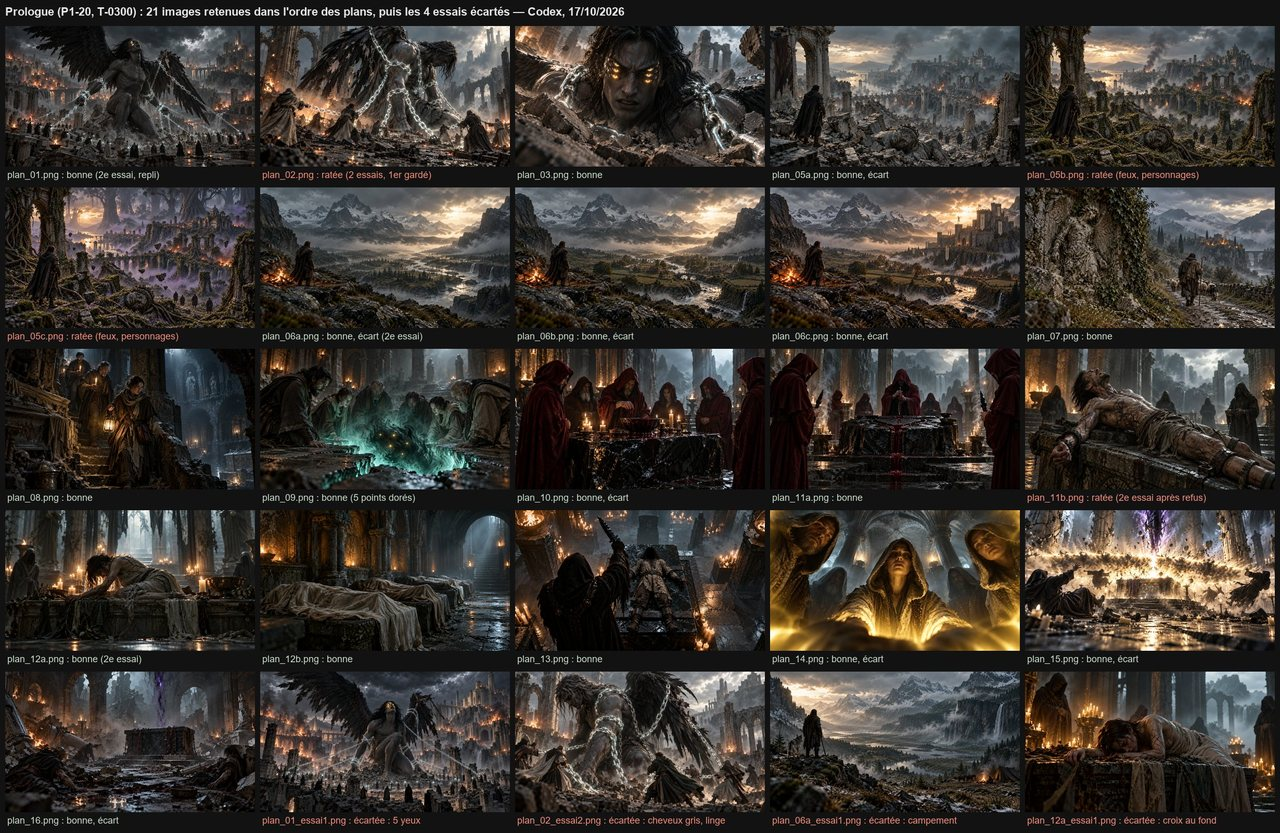
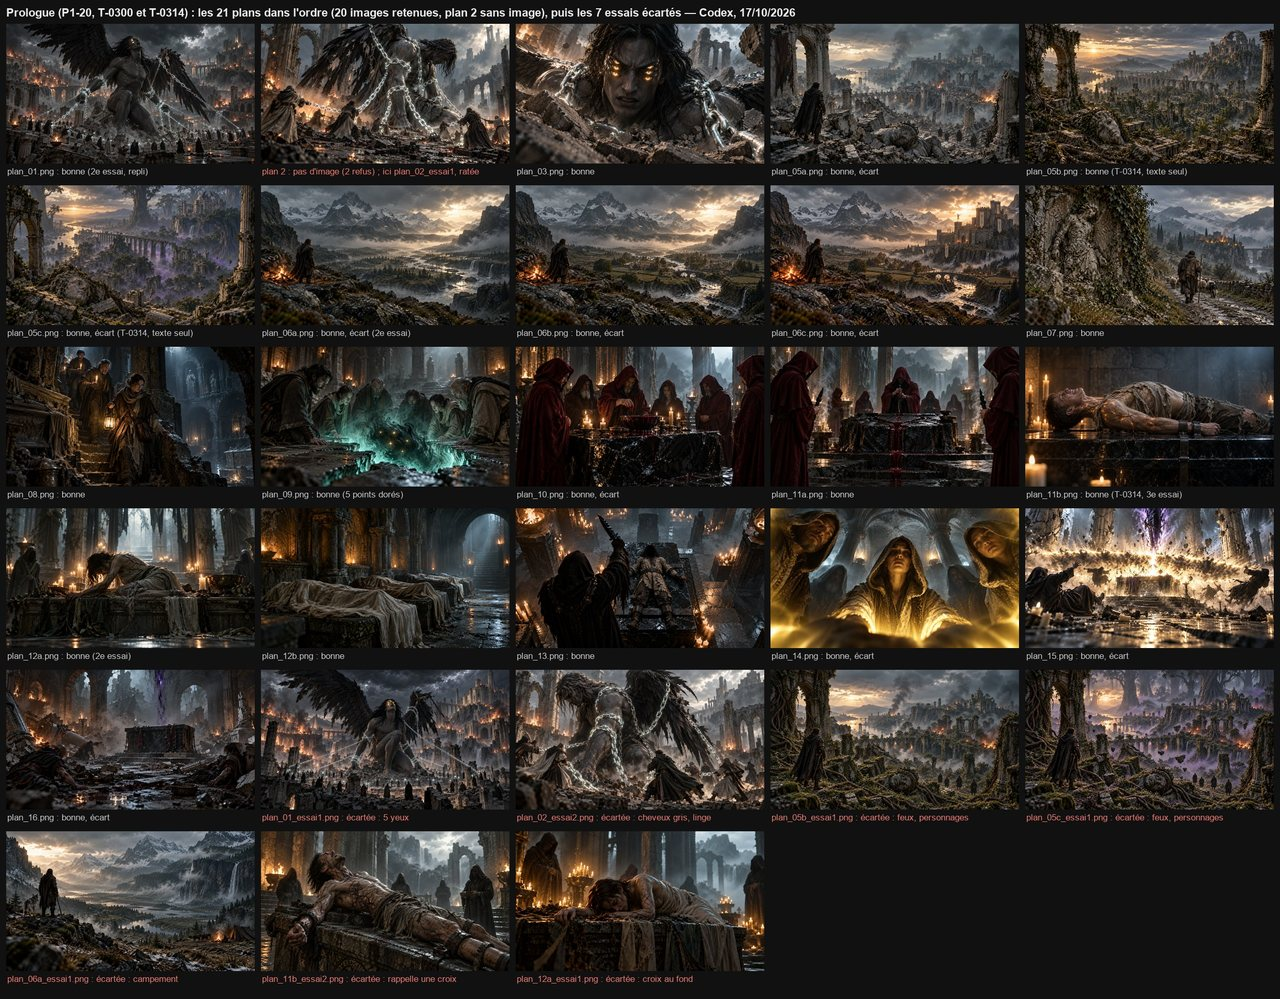
Publication : jour-2026-10-17

diff --git a/semaines/2026-10-13/pages/jour-2026-10-17/page.html b/semaines/2026-10-13/pages/jour-2026-10-17/page.html
@@ -95,7 +95,7 @@ ul.liste{margin:0;padding-left:1.1rem;display:grid;gap:.4rem}
   <div class="surtitre">Projet AAA · suivi · samedi 17 octobre 2026 · semaine du 13 au 19 octobre</div>
   <h1>Jour <em>5</em></h1>
   <p class="lecture">Le directeur a joué jusqu&#x27;à 05:46 en laissant les décisions du jour au Chef (<span class="insec">D-320</span>) : la matinée a reporté ses réponses (<span class="insec">D-319</span>), préparé les démos 1 et 2 et refait le plan ; depuis 05:46, la carte et le processeur sont rendus et les deux files repartent.</p>
-  <p class="ticket">Mise à jour : 17/10/2026 à 10:15</p>
+  <p class="ticket">Mise à jour : 17/10/2026 à 10:20</p>
   <nav class="sommaire" aria-label="Sommaire">
     <a href="#resume">Résumé</a><a href="#files">Files de travail</a><a href="#modeles">Modèles 3D</a><a href="#journal">Journal</a><a href="#questions">Questions</a>
   </nav>
@@ -104,7 +104,7 @@ ul.liste{margin:0;padding-left:1.1rem;display:grid;gap:.4rem}
 
 <section id="resume">
   <h2>Résumé</h2>
-  <div class="compteurs" aria-label="Tickets par état"><span class="etat e-a-faire">7 à faire</span><span class="etat e-en-cours">2 en cours</span><span class="etat e-verification">1 en vérification</span><span class="etat e-valide">61 validés</span></div>
+  <div class="compteurs" aria-label="Tickets par état"><span class="etat e-a-faire">7 à faire</span><span class="etat e-en-cours">2 en cours</span><span class="etat e-verification">2 en vérification</span><span class="etat e-valide">61 validés</span></div>
   <ul class="liste lecture">
     <li><strong><span class="insec">D-319</span></strong> : prologue (« Et puis toi. », Ange solide et assombri, réveil en FPS), entité de la démo 1 (« Lâche tout. Laisse-moi faire. », variantes de « Pas encore. », sous-titres d&#x27;au moins 1,5 s), hameau (voix des redites en direct, morts au hasard selon l&#x27;âge et la saison, marchand des Canyons, Choix A vouvoyé), villageois (tombe debout, retour de chasse, lanterne la nuit), laie au pas du mâle.</li>
     <li><strong><span class="insec">D-320</span></strong> : carte et processeur repris par le directeur pour jouer ; le Chef décide seul aujourd&#x27;hui et enchaîne les tickets en autonomie.</li>
@@ -197,7 +197,8 @@ ul.liste{margin:0;padding-left:1.1rem;display:grid;gap:.4rem}
     <div class="piste"><span class="ticket"><span class="insec">T-0311</span> · <span class="insec">D-320</span> (32) (2), (48)</span><h3>Sous-titres anglais de la démo 2</h3><p class="muted">L&#x27;anglais britannique des 48 répliques de PNJ montrées dans la vidéo de la démo 2.</p><span class="etat e-valide">Validé</span><p class="note">Validé à 09:56 après correction : les 48 répliques de la vidéo de la démo 2 ont leur anglais britannique.</p></div>
     <div class="piste"><span class="ticket"><span class="insec">T-0312</span> · <span class="insec">P1-20</span> · <span class="insec">D-320</span> (49)</span><h3>Invites corrigées du prologue</h3><p class="muted">Les invites des 4 images ratées (plans 2, 5b, 5c, 11b), avant leur seconde génération.</p><span class="etat e-valide">Validé</span><p class="note">Validé à 10:05 après correction : visage hors du cadre au plan 2, palais en ruine aux plans 5b et 5c, pose sans croix et veines noires qui luisent d&#x27;or au 11b.</p></div>
     <div class="piste"><span class="ticket"><span class="insec">T-0313</span> · <span class="insec">D-320</span> (43), (46)</span><h3>Report des restes du jour</h3><p class="muted">Plan sonore de la démo 2, répliques de l&#x27;entité, état de la démo 2, une réplique du bûcheron.</p><span class="etat e-valide">Validé</span><p class="note">Validé à 10:15 : les quatre reports sont justes ; BOI-15b conforme pour le gardien du lore.</p></div>
-    <div class="piste"><span class="ticket"><span class="insec">T-0314</span> · <span class="insec">P1-20</span> · <span class="insec">D-320</span> (49), (51)</span><h3>Les 4 images du prologue refaites</h3><p class="muted">Plans 2, 5b, 5c et 11b, avec les invites corrigées ; 5b et 5c depuis le texte seul.</p><span class="etat e-en-cours">En cours</span><p class="note">Lancé à 10:05.</p></div>
+    <div class="piste"><span class="ticket"><span class="insec">T-0314</span> · <span class="insec">P1-20</span> · <span class="insec">D-320</span> (49), (51)</span><h3>Les 4 images du prologue refaites</h3><p class="muted">Plans 2, 5b, 5c et 11b, avec les invites corrigées ; 5b et 5c depuis le texte seul.</p><span class="etat e-verification">En vérification</span><p class="note">Livré à 10:19 : 5b, 5c et 11b refaits et bons (20 sur 21) ; le plan 2, refusé deux fois par le filtre, sera tiré du plan 1 au montage (<span class="insec">D-320</span> (52)). Vérification lancée.</p></div>
+    <div class="piste"><span class="ticket"><span class="insec">T-0315</span> · <span class="insec">D-320</span> (10), (50)</span><h3>Liste anglais-français</h3><p class="muted">Les noms et mots du jeu avec leur anglais britannique, avant les voix du hameau.</p><span class="etat e-en-cours">En cours</span><p class="note">Lancé à 10:15.</p></div>
   </div>
   <p class="suite">Après <span class="insec">T-0288</span> : la page « Modèles 3D » (villageois, sanglier, escalade du héros, en images et vidéos), puis de nouveaux tickets d&#x27;écriture pour la démo 1.</p>
 </div>
@@ -297,10 +298,10 @@ ul.liste{margin:0;padding-left:1.1rem;display:grid;gap:.4rem}
   <p class="chemins">Sur le PC : E:\aaa-proto\unreal-v2\mesures\t0199\</p>
 </article>
 <article class="modele" id="mod-prologue-images">
-  <div class="tete"><h3>Prologue : les 21 images</h3><span class="etat e-valide">Validé</span></div>
+  <div class="tete"><h3>Prologue : les 21 images</h3><span class="etat e-verification">En vérification</span></div>
   <p class="ticket"><span class="insec">T-0300</span> · <span class="insec">P1-20</span> · <span class="insec">D-160</span> · <span class="insec">D-320</span> (30), (49)</p>
-  <figure><img src="images/prologue-images.jpg" alt="Planche des images du prologue de la démo 1" width="1280" height="833" loading="lazy"><figcaption>Les 21 images dans l&#x27;ordre des plans, puis les essais écartés ; les ratées sont marquées en rouge.</figcaption></figure>
-  <p>Images faites avec Codex à partir des invites du prologue : 17 bonnes ; les plans 2, 5b, 5c et 11b seront refaits avec des invites corrigées. Elles seront animées (zooms, parallaxe) dans le montage du prologue.</p>
+  <figure><img src="images/prologue-images.jpg" alt="Planche des images du prologue de la démo 1" width="1280" height="999" loading="lazy"><figcaption>Les 21 images dans l&#x27;ordre des plans, puis les essais écartés ; les ratées sont marquées en rouge.</figcaption></figure>
+  <p>Images faites avec Codex à partir des invites du prologue : 20 bonnes sur 21 ; le plan 2 sera tiré du plan 1 au montage (<span class="insec">D-320</span> (52)). Elles seront animées (zooms, parallaxe) dans le montage du prologue.</p>
   <p class="chemins">Sur le PC : E:\aaa-proto\prologue\images\</p>
 </article>
   </div>
@@ -480,6 +481,8 @@ ul.liste{margin:0;padding-left:1.1rem;display:grid;gap:.4rem}
     <div class="entree"><time>10:10</time><p><span class="insec">T-0313</span> livré (report des restes du jour), en vérification et relecture du lore.</p></div>
     <div class="entree"><time>10:14</time><p>Correction 2 de <span class="insec">T-0309</span> (vidéo de la démo 2) en vérification.</p></div>
     <div class="entree"><time>10:15</time><p><span class="insec">T-0313</span> validé : les restes du jour sont reportés.</p></div>
+    <div class="entree"><time>10:15</time><p><span class="insec">T-0315</span> lancé : liste anglais-français des noms et mots du jeu (<span class="insec">D-320</span> (50)).</p></div>
+    <div class="entree"><time>10:20</time><p><span class="insec">T-0314</span> livré : 20 images du prologue sur 21 sont bonnes. Choix du Chef (<span class="insec">D-320</span> (52)) : le plan 2 sera tiré du plan 1 au montage.</p></div>
   </div>
 </section>
 
